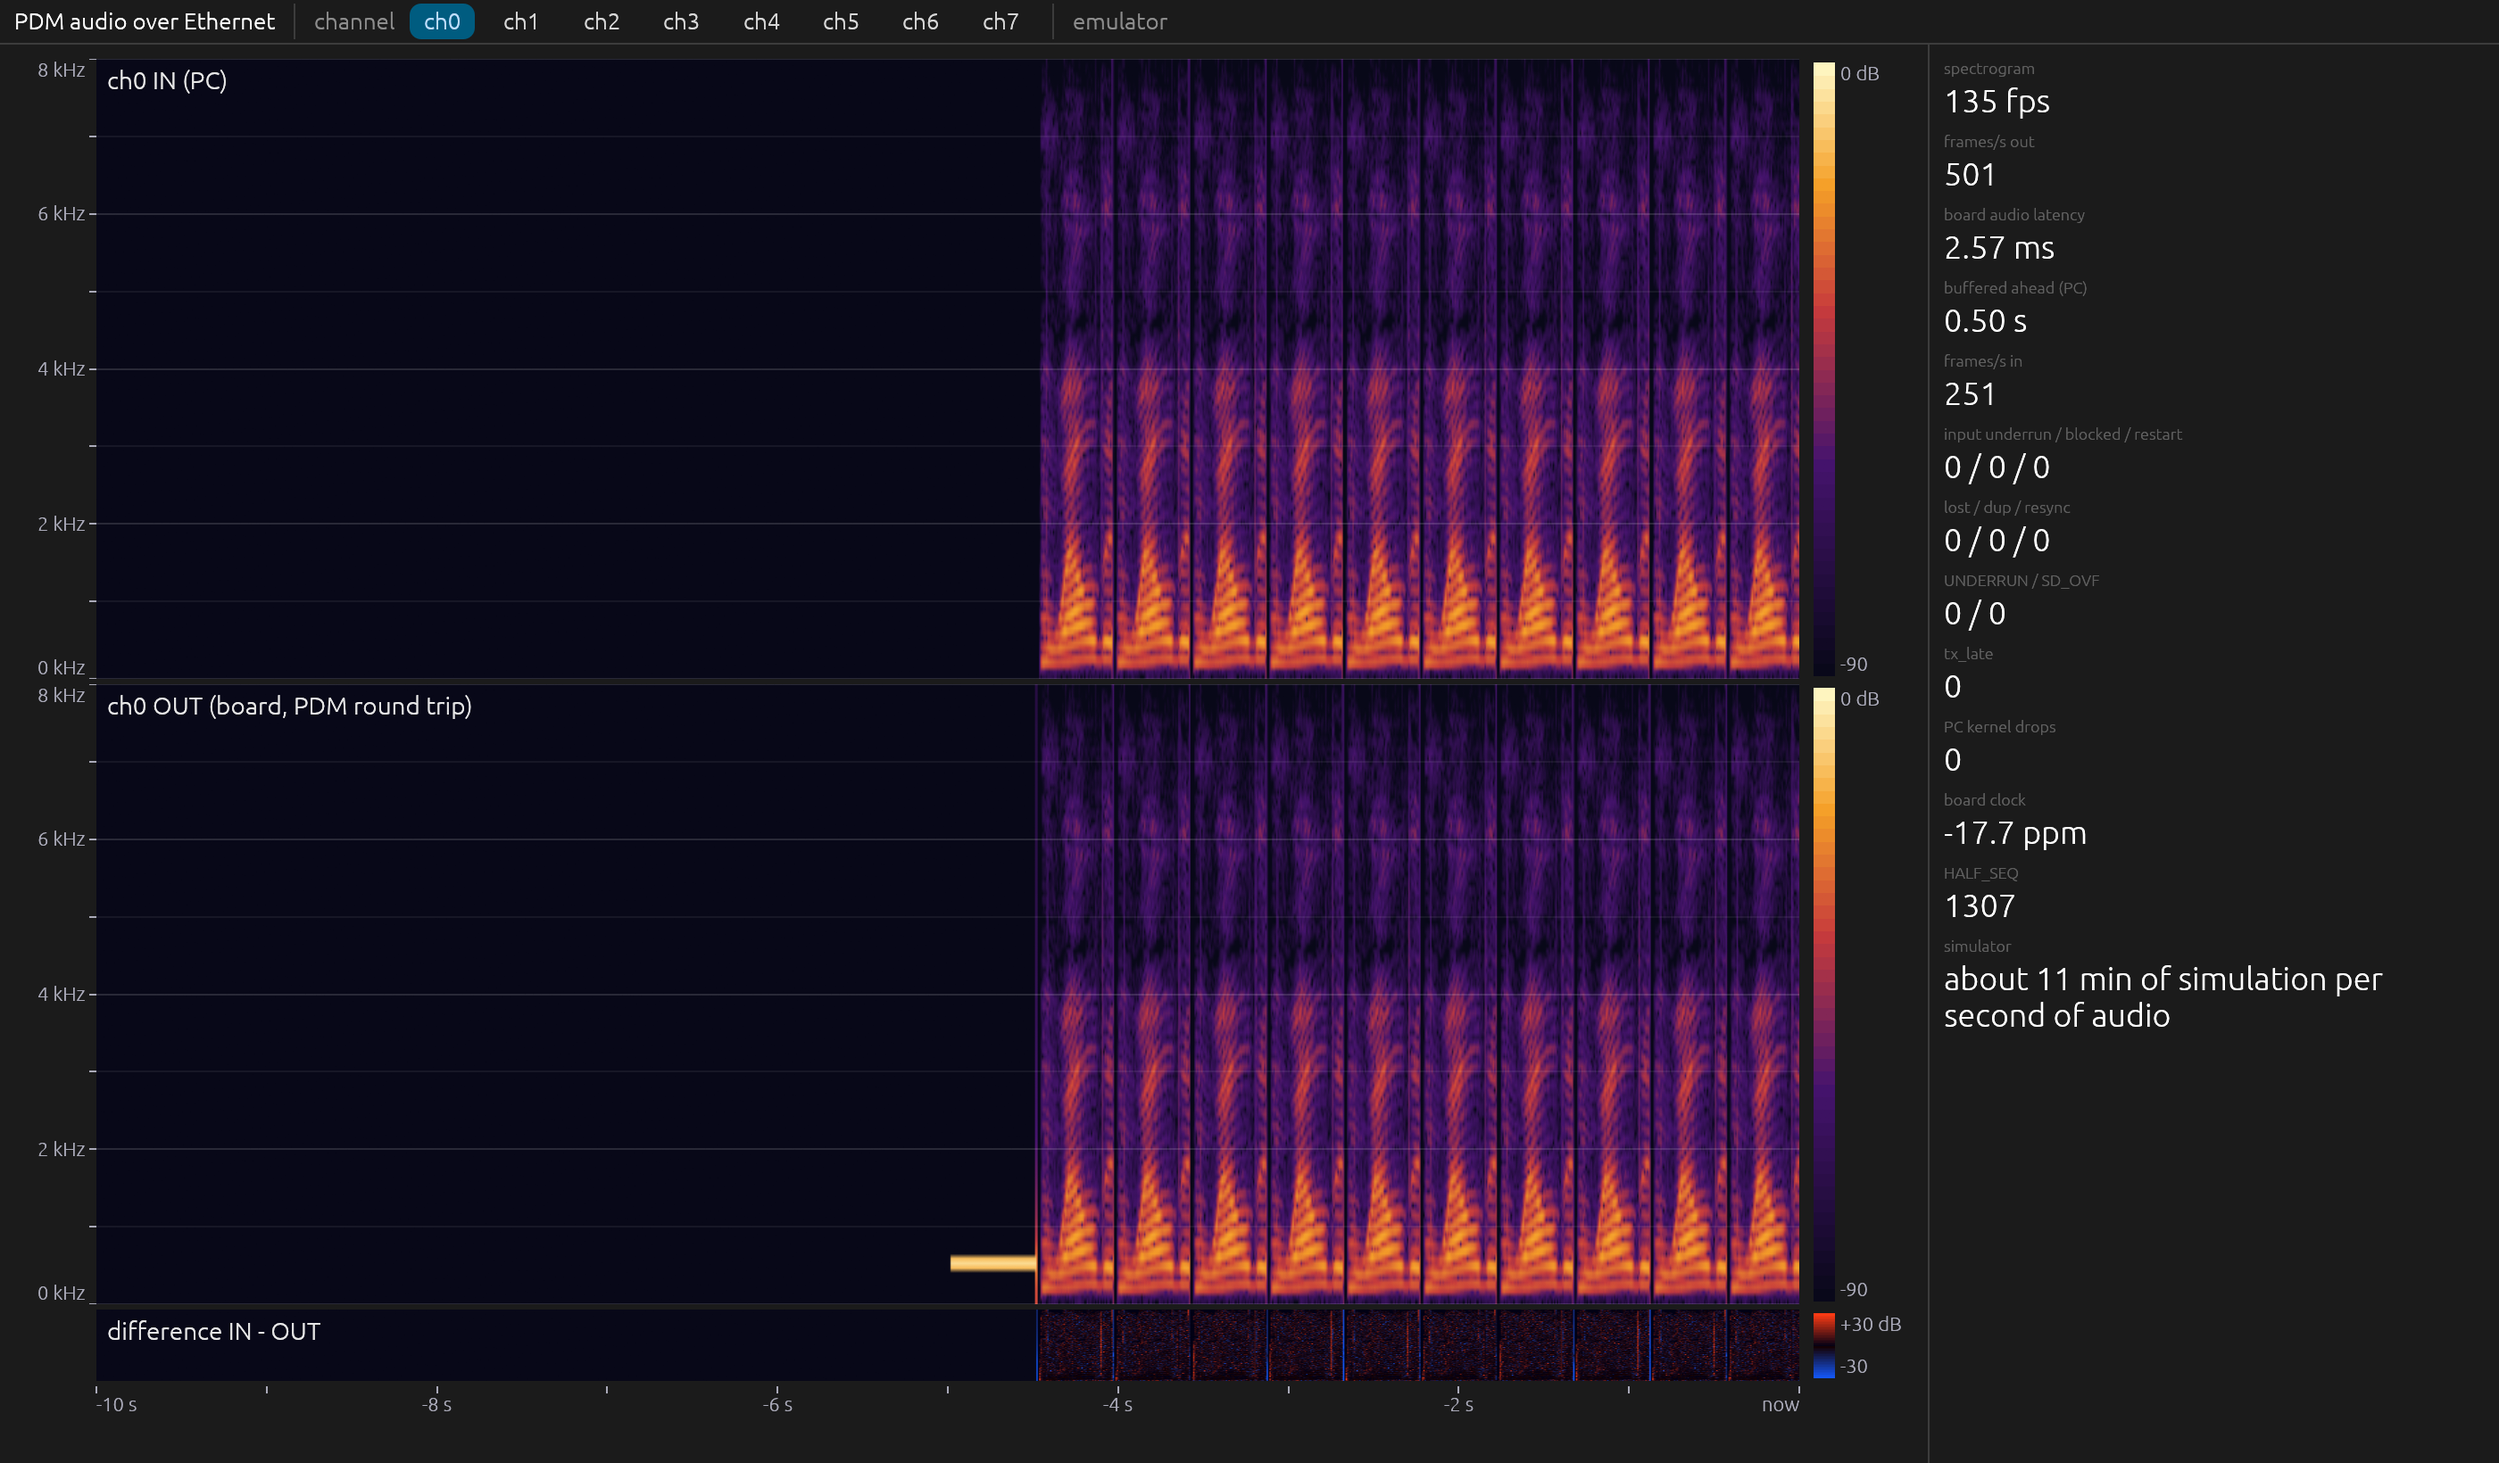
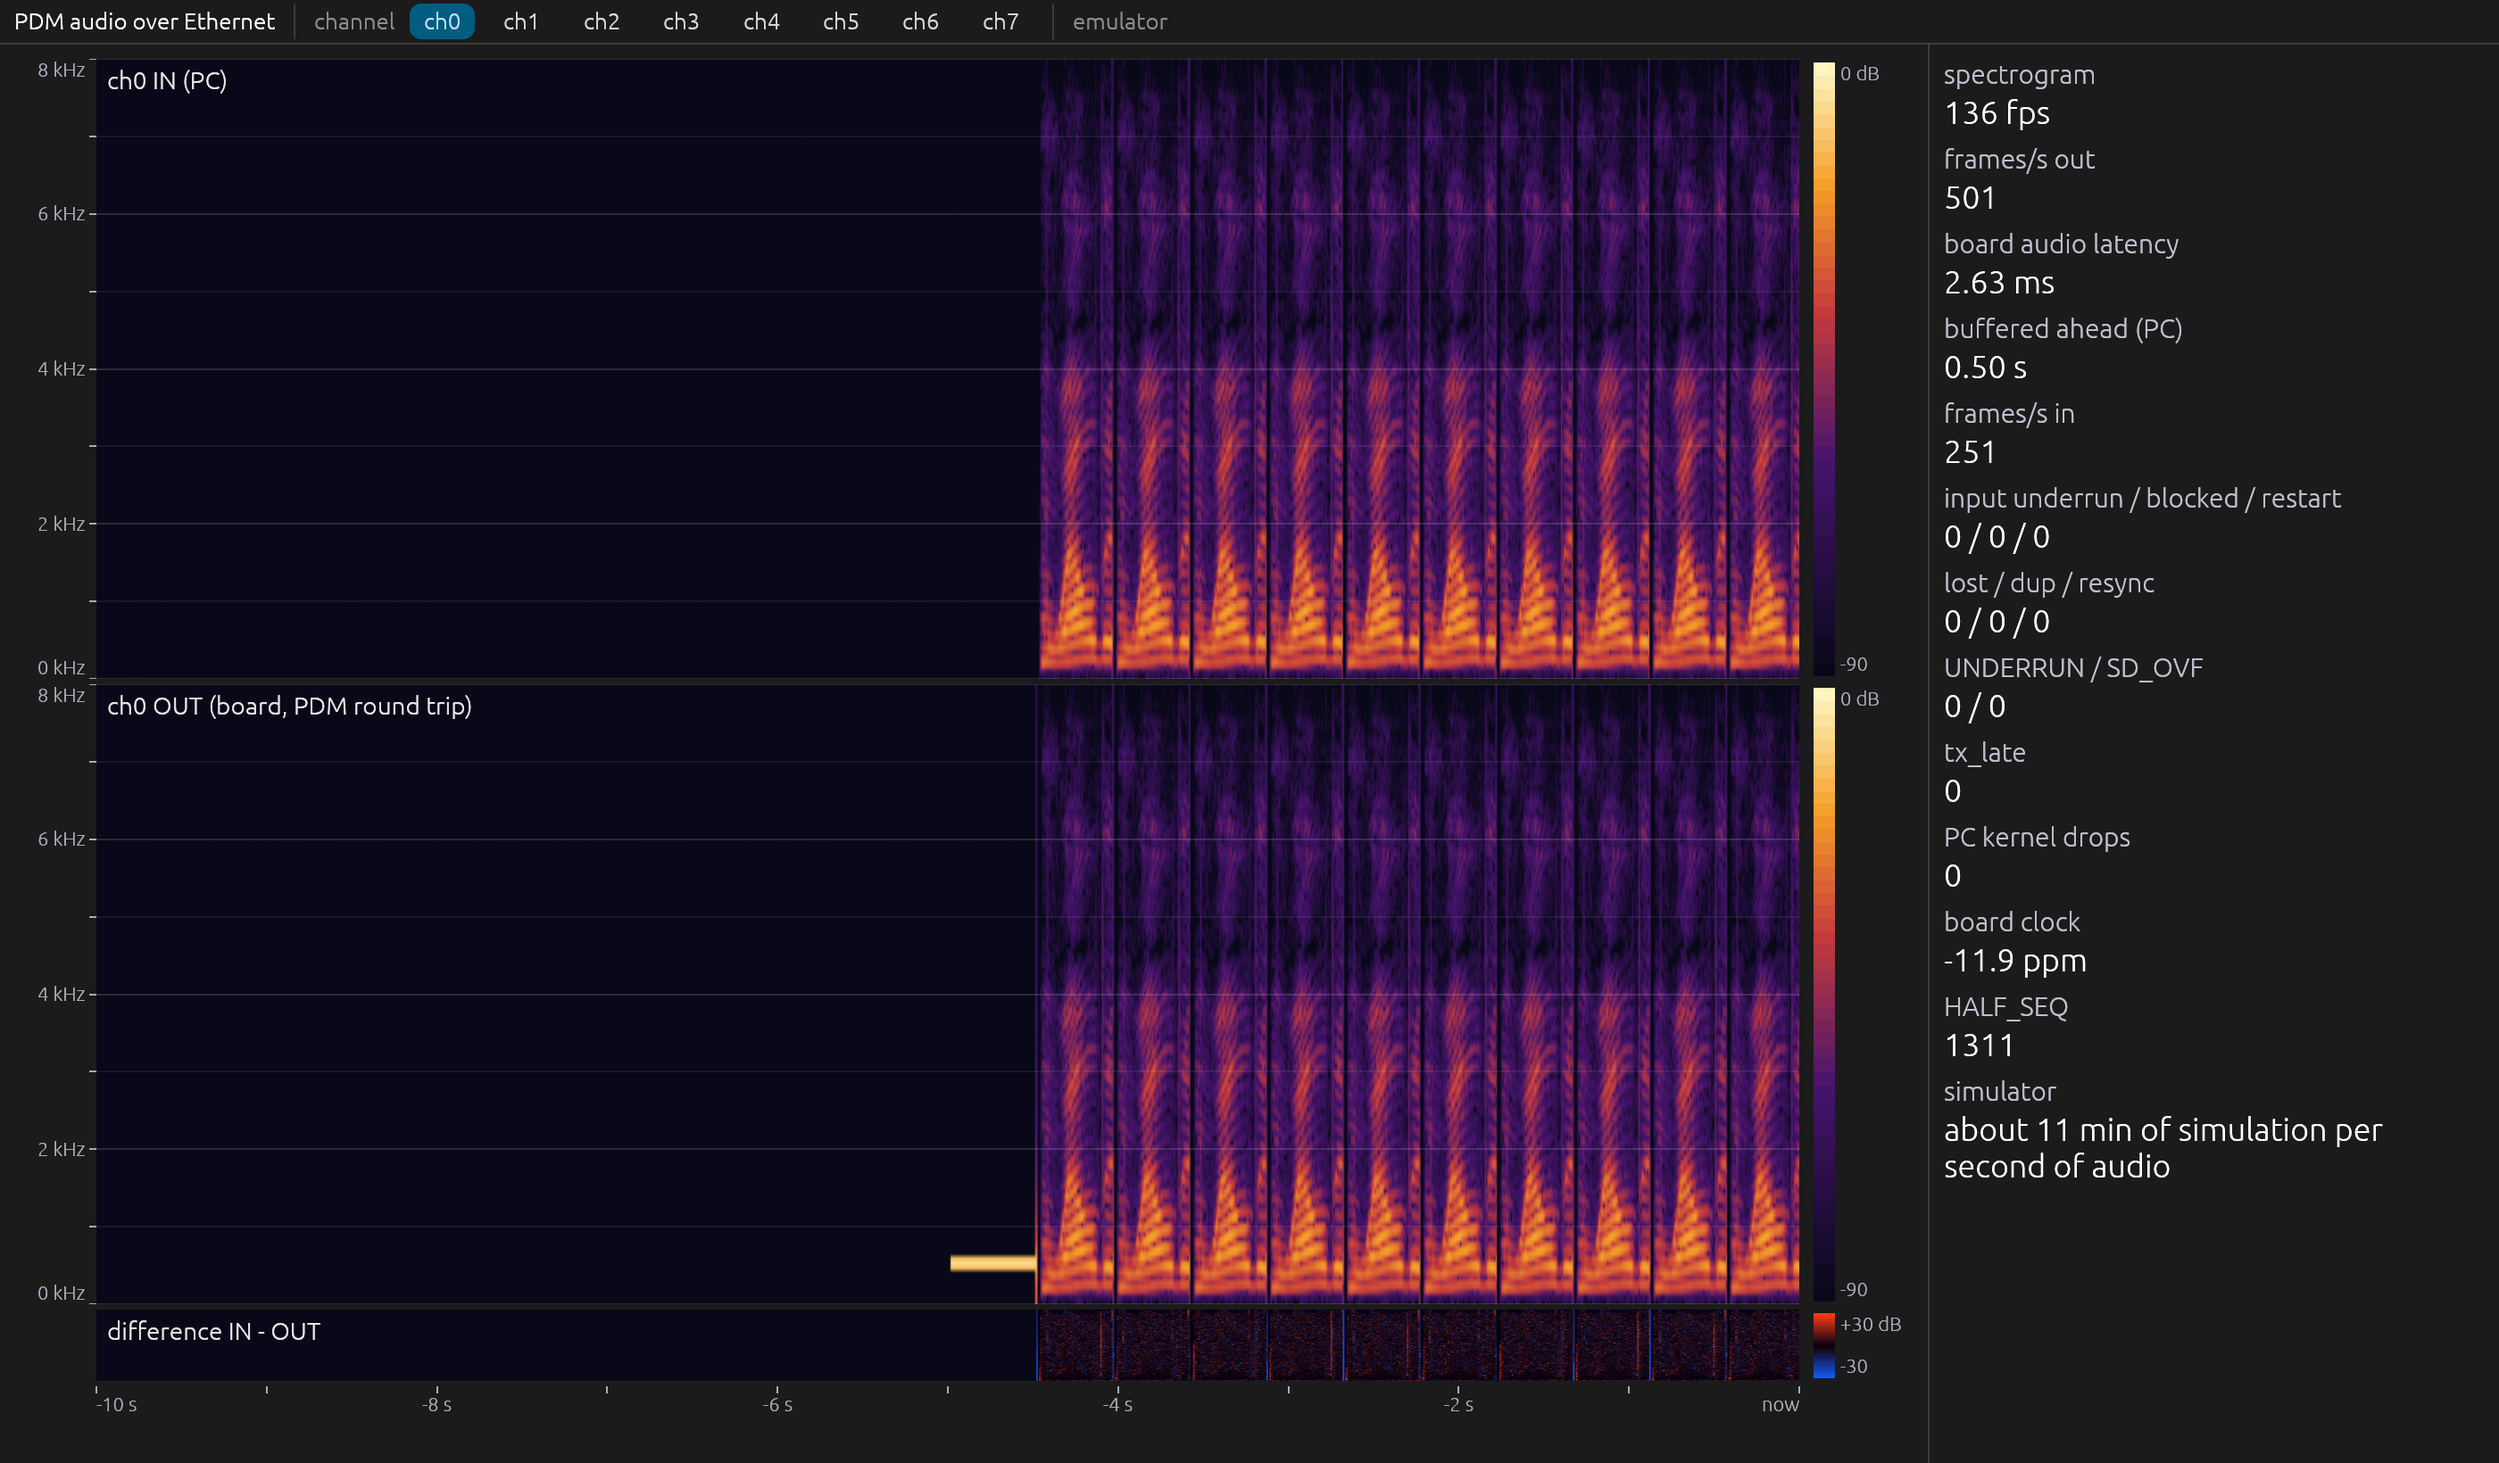
feat(pdm_audio_eth): pc_app readable side-panel titles
The side-panel line titles were egui small + weak and hard to read at the
booth (user). Now 15 px, light grey; values stay 18 px bold. README
screenshot regenerated.

Changed region(s): [[0.7768, 0.0311, 0.9321, 0.7152], [0.7768, 0.7463, 0.9321, 0.8085]]

diff --git a/examples/electronica2026/pdm_audio_eth/pc_app/src/ui.rs b/examples/electronica2026/pdm_audio_eth/pc_app/src/ui.rs
@@ -468,6 +468,10 @@ pub fn save_png(path: &std::path::Path, img: &ColorImage) -> std::io::Result<()>
     w.write_image_data(&data).map_err(std::io::Error::other)
 }
 
+/// Side-panel line titles: readable at booth distance (were egui `small().weak()`).
+const LABEL_PX: f32 = 15.0;
+const LABEL_COLOUR: Color32 = Color32::from_rgb(190, 190, 205);
+
 /// Seconds shown across a pane: `COLUMNS` columns of hop 128 at 16 kHz.
 pub const SPAN_S: f32 = (COLUMNS * 128) as f32 / 16000.0;
 /// Top of the frequency axis (Nyquist of 16 kHz PCM).
@@ -606,7 +610,7 @@ impl eframe::App for App {
         egui::Panel::right("numbers").resizable(false).exact_size(320.0).show(ui, |ui| {
             ui.add_space(6.0);
             for (k, v) in self.side_lines(fps) {
-                ui.label(egui::RichText::new(k).small().weak());
+                ui.label(egui::RichText::new(k).size(LABEL_PX).color(LABEL_COLOUR));
                 ui.add(egui::Label::new(egui::RichText::new(v).size(18.0).strong()).wrap());
                 ui.add_space(4.0);
             }
